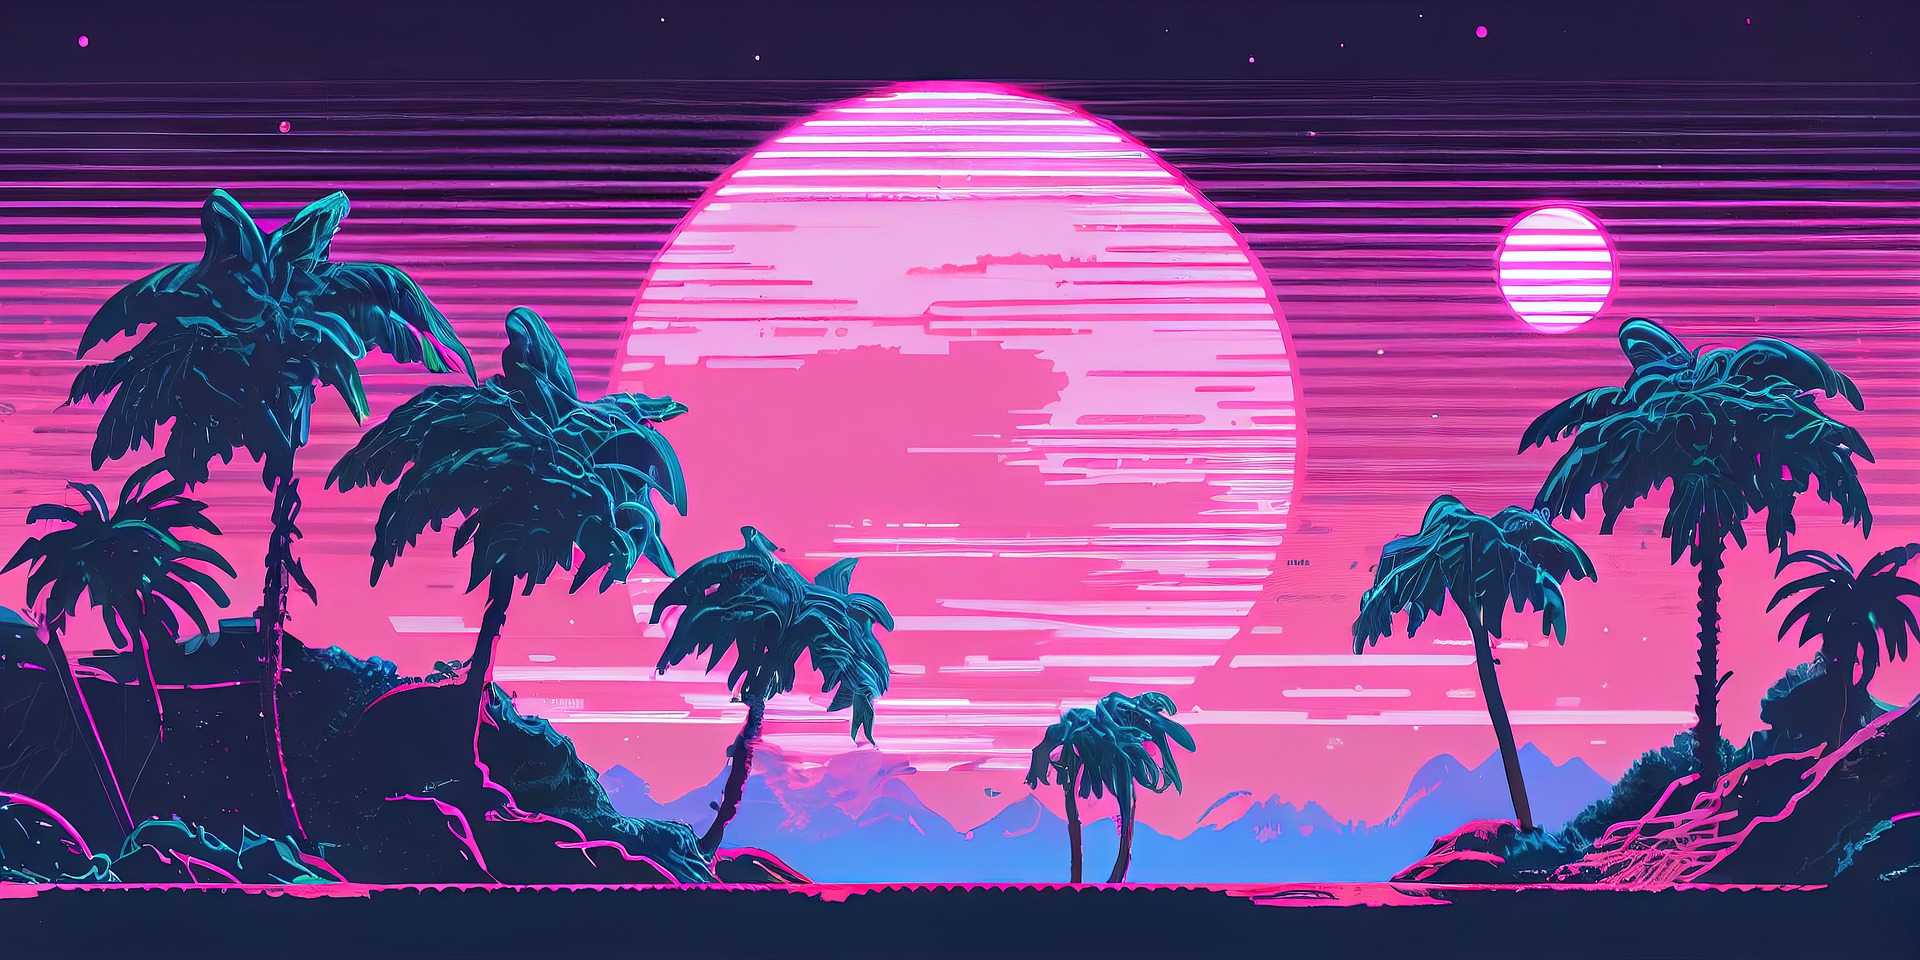
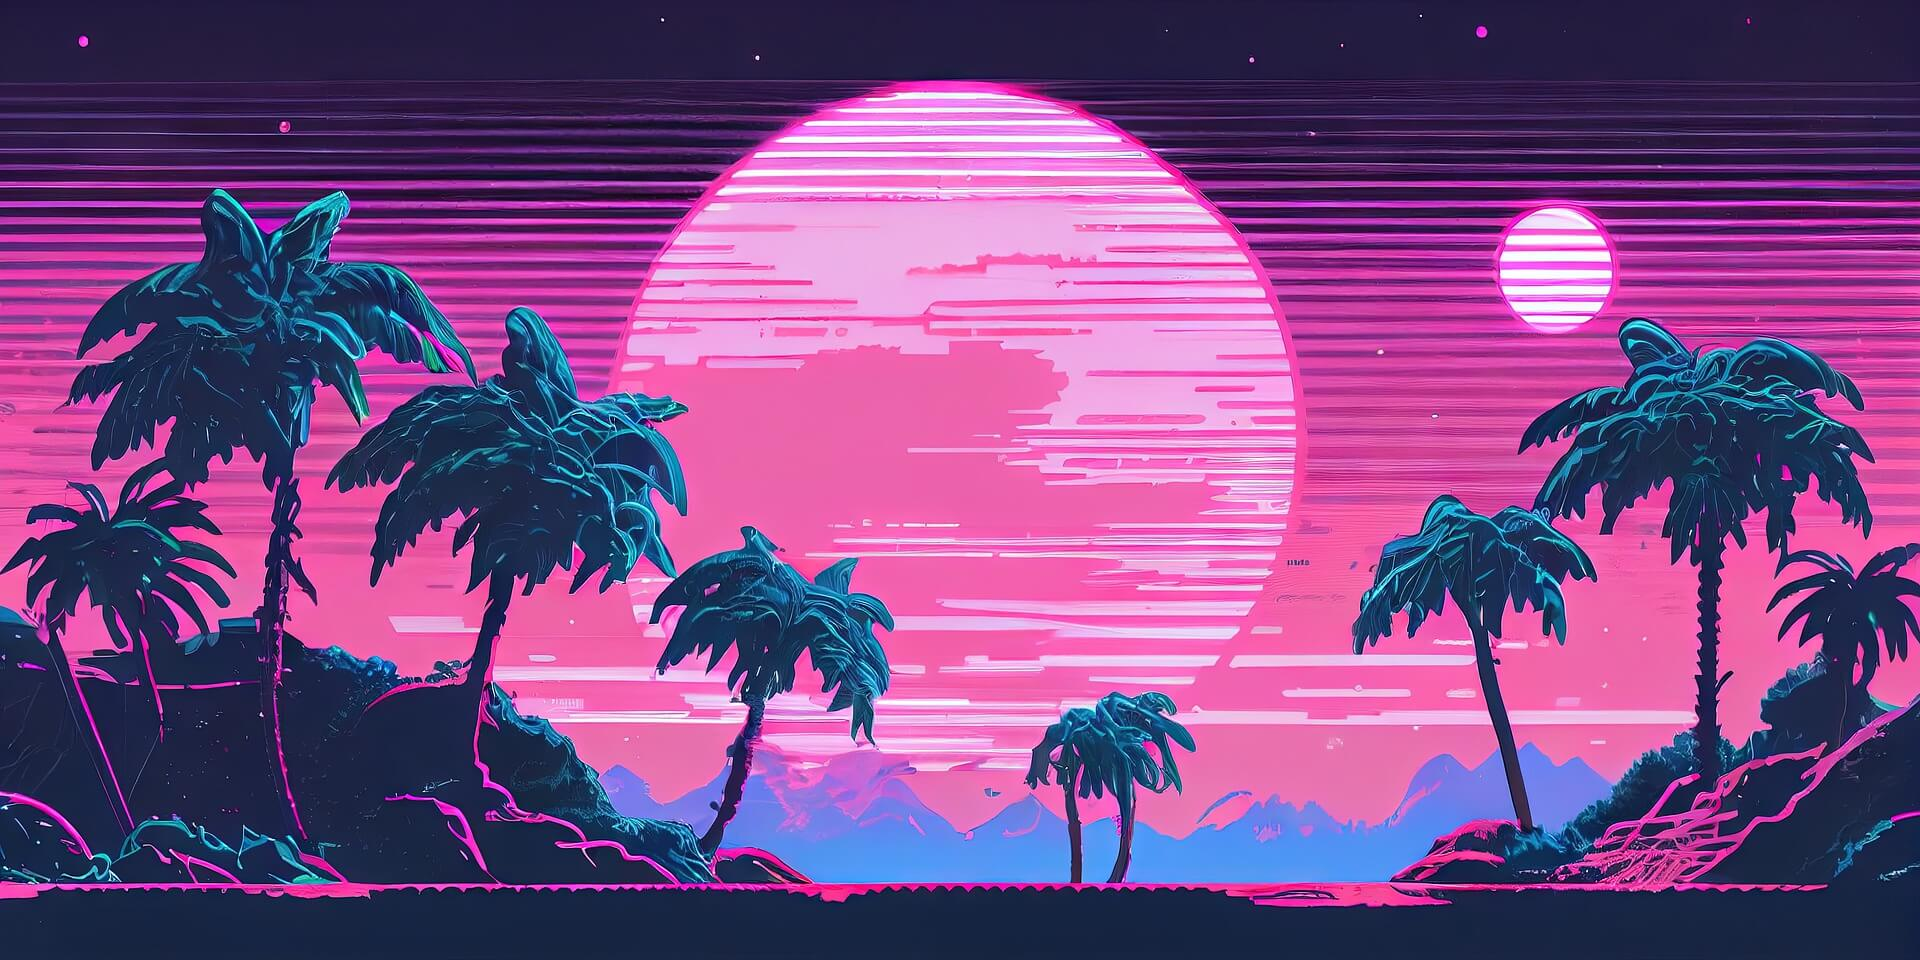
Otimização de imagens
Otimizado a imagem de fundo do profile
Adicionado webpm, mobile tem versao de resolução menor e desktop resolução maior

diff --git a/Assets/Css/style.css b/Assets/Css/style.css
@@ -700,8 +700,11 @@ About
   width: 100%;
   border-radius: 10px 10px 0px 0px;
   /*background profile*/
-  background: url("../Images/profile/palm-trees-7828313_1920.jpg") bottom center /
-    cover no-repeat;
+  background: url("../Images/profile/palm-trees-7828313_600.webp"),
+    url("../Images/profile/palm-trees-7828313_600.jpg");
+  background-size: cover;
+  background-repeat: no-repeat;
+  background-position: center bottom;
   border-bottom: 1px solid var(--bg-400);
 }
 
@@ -1021,7 +1024,6 @@ Right Fixed Button
   }
 }
 
-
 #BackToTop {
   display: none;
 }
@@ -1145,6 +1147,15 @@ footer {
   #portfolio {
     margin-top: -1em;
   }
+
+  .profileHeader {
+    background: url("../Images/profile/palm-trees-7828313_1920.webp"),
+      url("../Images/profile/palm-trees-7828313_1920.jpg");
+    background-size: cover;
+    background-repeat: no-repeat;
+    background-position: center bottom;
+  }
+
   .footer-content {
     display: flex;
     flex-direction: row;
